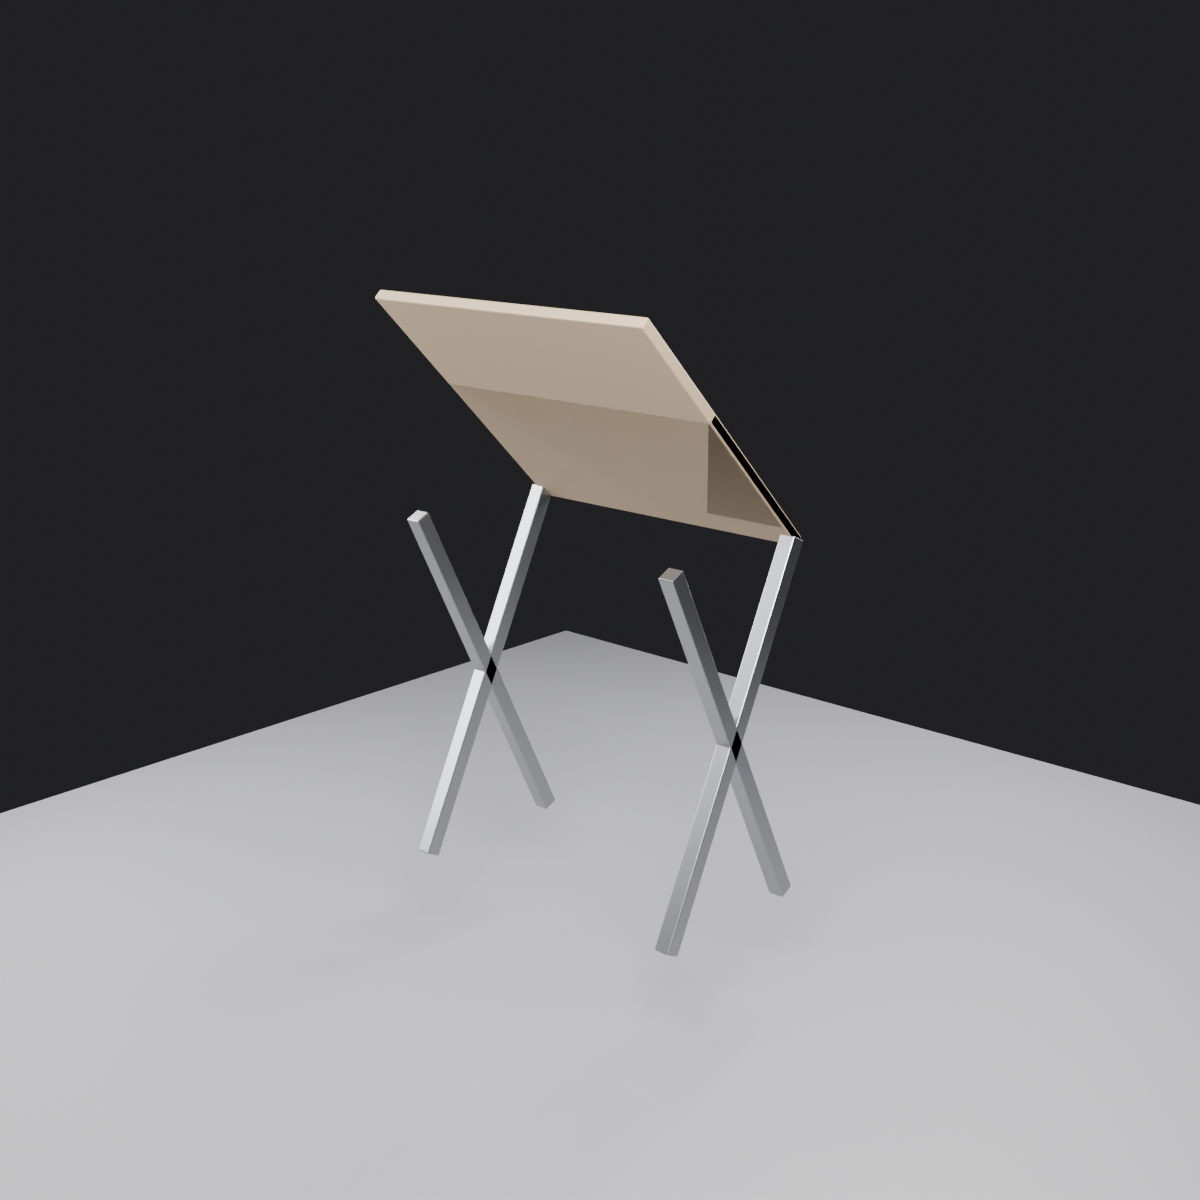
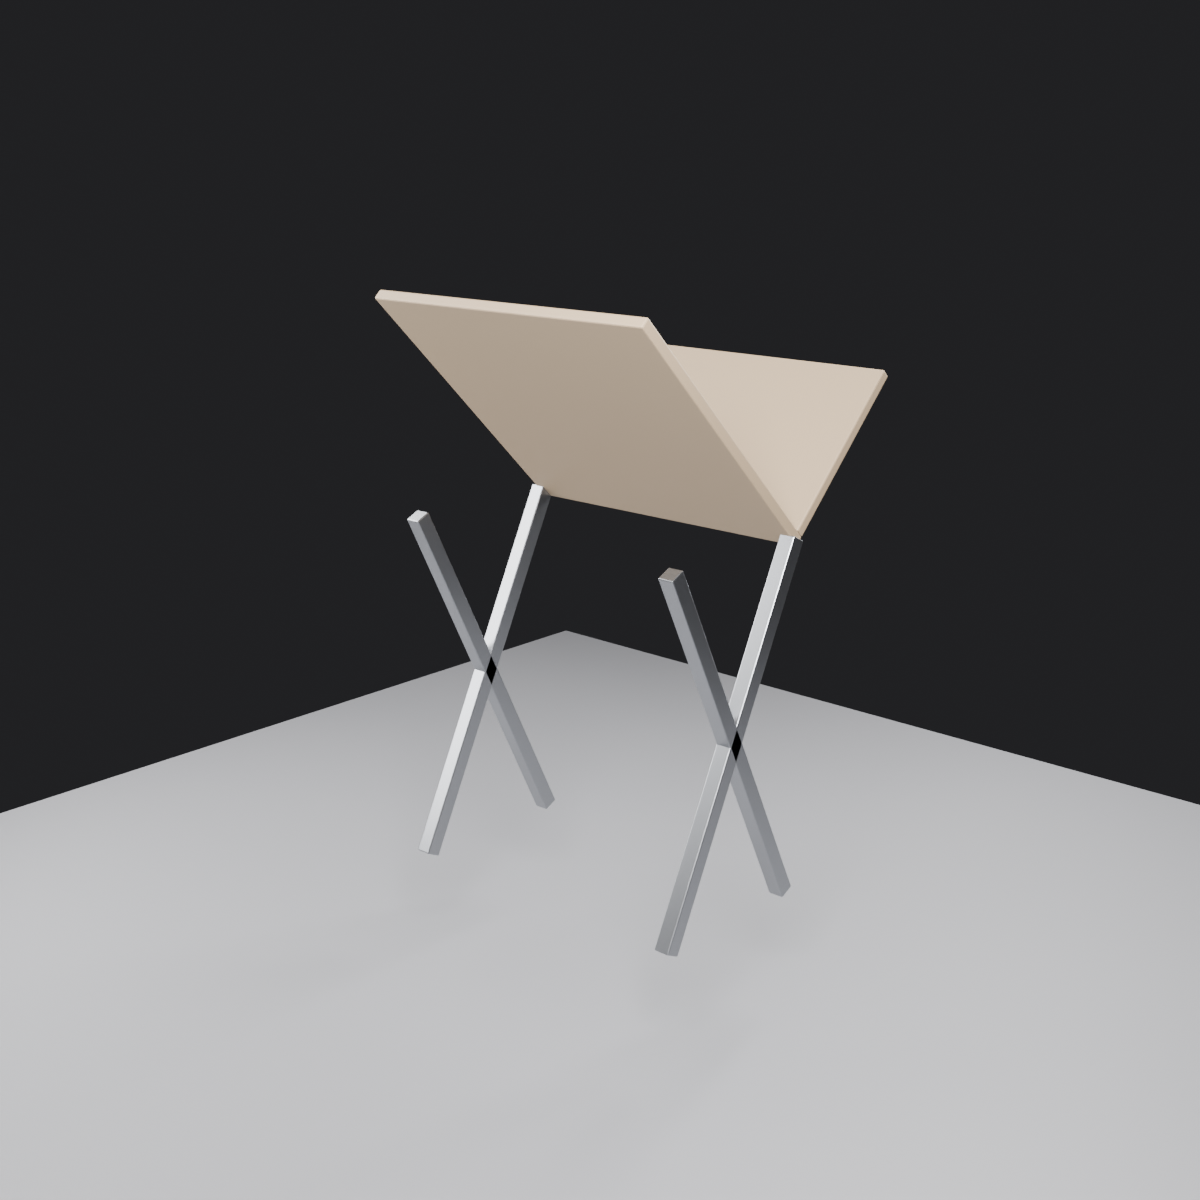
auto sync 2026-11-26 01:02:07

Changed region(s): [[0.555, 0.2775, 0.74, 0.4625]]

diff --git a/tasks/cua/folding-chair/authoring/build_chair.py b/tasks/cua/folding-chair/authoring/build_chair.py
@@ -161,9 +161,9 @@ def animate(hinges, bars, seat, back, hinge3, hinge4, pin):
         hinge4.keyframe_insert("rotation_euler", frame=frame)
 
     key(0, 0.0, 0.0, 0.0)
-    key(20, ALPHA * 0.5, math.radians(-45), math.radians(90))
-    key(40, ALPHA, math.radians(-80), math.radians(160))
-    key(60, ALPHA, math.radians(-90), math.radians(180))
+    key(20, ALPHA * 0.5, math.radians(-45), math.radians(0))
+    key(40, ALPHA, math.radians(-80), math.radians(0))
+    key(60, ALPHA, math.radians(-90), math.radians(0))
     sc.frame_set(0)
 
     for f, hidden in ((0, False), (1, True), (59, True), (60, True)):
